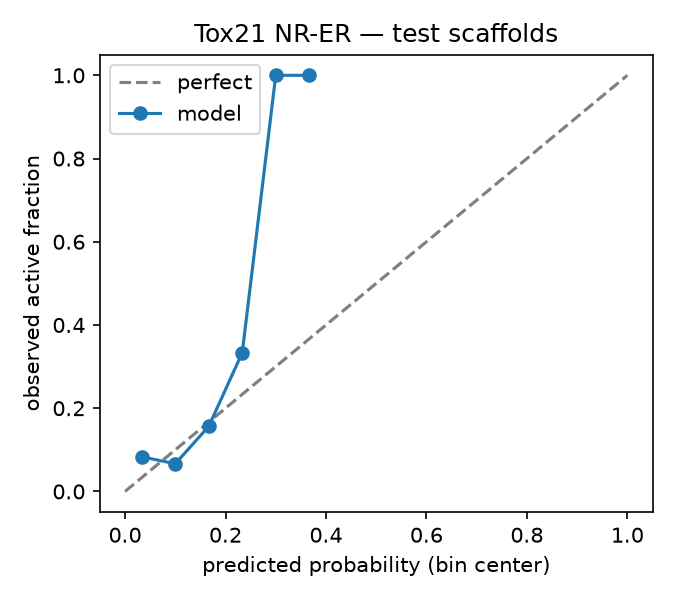
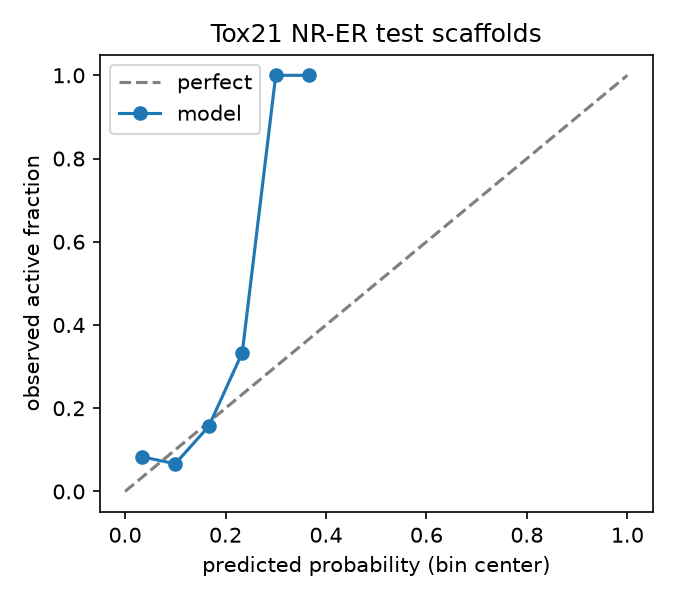
Add TensorFlow/Keras MLP head to the NR-ER comparison
Fourth model on the identical scaffold split: a Keras MLP on Morgan
fingerprints, wrapped in a picklable sklearn adapter (weights + dense
spec, not the live graph) so it flows through the same Platt-on-valid
calibration, conformal, and applicability-domain evaluation. Measured
on held-out scaffolds: AUROC 0.679, AUPRC 0.314 — the best AUPRC of the
four heads. PyTorch, JAX, and TensorFlow are now all exercised on the
same task and eval path.

Generated with [Devin](https://devin.ai)

Changed region(s): [[0.28, 0.03, 0.84, 0.09]]

diff --git a/src/comp_tox/models/mlp_tf.py b/src/comp_tox/models/mlp_tf.py
@@ -1,0 +1,155 @@
+"""TensorFlow/Keras MLP baseline on Morgan fingerprints.
+
+Same scaffold split, same Platt-on-validation calibration, same eval path
+as the sklearn baselines and the PyTorch GNN — this head exists to keep the
+third framework honest (PyTorch GNN, JAX/Flax parity port, TF/Keras here),
+not to claim a better model class.
+
+`_KerasMlp` is an sklearn-style adapter storing only the dense-layer spec
+and numpy weights, so the model bundle stays joblib-picklable. Keras
+models themselves are not safely picklable.
+"""
+
+from __future__ import annotations
+
+import numpy as np
+from scipy import sparse
+from sklearn.base import BaseEstimator, ClassifierMixin
+
+
+class _KerasMlp(ClassifierMixin, BaseEstimator):
+    """predict_proba adapter around a Keras MLP; stores weights, not the graph.
+
+    BaseEstimator/ClassifierMixin give it the sklearn contract (tags,
+    get_params/clone) that FrozenEstimator + CalibratedClassifierCV need.
+    """
+
+    def __init__(self, n_in: int, arch: list, weights: list):
+        self.n_in = n_in
+        self.arch = arch  # [(units, activation_name), ...]
+        self.weights = weights  # list of np.ndarray, get_weights() order
+        self.classes_ = np.array([0, 1])
+        self._model = None
+
+    def __getstate__(self):
+        # the live Keras graph is not picklable; weights + spec are
+        return {
+            "n_in": self.n_in,
+            "arch": self.arch,
+            "weights": self.weights,
+        }
+
+    def __setstate__(self, state):
+        self.__init__(state["n_in"], state["arch"], state["weights"])
+
+    @classmethod
+    def from_model(cls, model, n_in: int) -> "_KerasMlp":
+        import tensorflow as tf
+
+        dense = [
+            layer
+            for layer in model.layers
+            if isinstance(layer, tf.keras.layers.Dense)
+        ]
+        arch = [(int(l.units), l.activation.__name__) for l in dense]
+        return cls(n_in, arch, model.get_weights())
+
+    def _build(self):
+        import tensorflow as tf
+
+        x_in = tf.keras.Input(shape=(self.n_in,))
+        x = x_in
+        for units, act in self.arch:
+            x = tf.keras.layers.Dense(units, activation=act)(x)
+        model = tf.keras.Model(x_in, x)
+        model.set_weights(self.weights)
+        return model
+
+    def predict_proba(self, X):
+        if self._model is None:
+            self._model = self._build()
+        if sparse.issparse(X):
+            X = X.toarray()
+        p = self._model.predict(np.asarray(X, dtype=np.float32), verbose=0)
+        p = p.reshape(-1)
+        return np.column_stack([1.0 - p, p])
+
+    def fit(self, X=None, y=None):
+        # weights are baked in at construction (train_mlp_tf); sklearn's
+        # check_is_fitted only requires the method to exist
+        return self
+
+    def predict(self, X):
+        # needed so FrozenEstimator satisfies cross_val_predict's contract
+        return (self.predict_proba(X)[:, 1] >= 0.5).astype(int)
+
+
+def train_mlp_tf(X, y, seed: int, epochs: int = 30, batch_size: int = 128):
+    """Train the Keras MLP on the train split; returns a _KerasMlp.
+
+    Determinism: `set_random_seed` covers weight init, dropout, and shuffle
+    order. TF ops are deterministic at this scale on a given build, but
+    unlike the lbfgs baseline this is seed-level reproducibility, not
+    bit-level — documented rather than hidden.
+    """
+    if epochs < 1:
+        raise ValueError(f"epochs must be >= 1, got {epochs}")
+
+    import tensorflow as tf
+
+    tf.keras.utils.set_random_seed(seed)
+
+    if sparse.issparse(X):
+        X = X.toarray()
+    X = np.asarray(X, dtype=np.float32)
+    y = np.asarray(y, dtype=np.float32)
+
+    # Balanced class weights: the endpoint is ~4-9% actives; unweighted BCE
+    # would collapse toward the inactive majority.
+    n, n_pos = len(y), float(y.sum())
+    if n_pos == 0 or n_pos == n:
+        raise ValueError(
+            f"train split is single-class ({int(n_pos)} of {n} active); "
+            "balanced class weights are undefined"
+        )
+    w = {0.0: n / (2 * (n - n_pos)), 1.0: n / (2 * n_pos)}
+
+    # Shuffle once up front: keras validation_split takes the *tail* of the
+    # array, which is only a random subset if the rows were shuffled.
+    rng = np.random.default_rng(seed)
+    perm = rng.permutation(n)
+    X, y = X[perm], y[perm]
+
+    model = tf.keras.Sequential(
+        [
+            tf.keras.Input(shape=(X.shape[1],)),
+            tf.keras.layers.Dense(256, activation="relu"),
+            tf.keras.layers.Dropout(0.3),
+            tf.keras.layers.Dense(64, activation="relu"),
+            tf.keras.layers.Dropout(0.3),
+            tf.keras.layers.Dense(1, activation="sigmoid"),
+        ]
+    )
+    model.compile(
+        optimizer=tf.keras.optimizers.Adam(1e-3),
+        loss="binary_crossentropy",
+        metrics=[tf.keras.metrics.AUC(name="auroc")],
+    )
+    model.fit(
+        X,
+        y,
+        epochs=epochs,
+        batch_size=batch_size,
+        validation_split=0.15,
+        class_weight=w,
+        callbacks=[
+            tf.keras.callbacks.EarlyStopping(
+                monitor="val_auroc",
+                mode="max",
+                patience=5,
+                restore_best_weights=True,
+            )
+        ],
+        verbose=0,
+    )
+    return _KerasMlp.from_model(model, X.shape[1])

diff --git a/tests/test_mlp_tf.py b/tests/test_mlp_tf.py
@@ -1,0 +1,55 @@
+import io
+
+import joblib
+import numpy as np
+import pytest
+from scipy import sparse
+
+tf = pytest.importorskip("tensorflow")
+
+from comp_tox.models.mlp_tf import _KerasMlp, train_mlp_tf
+
+
+def _toy(seed=0):
+    rng = np.random.default_rng(seed)
+    n = 200
+    X = sparse.csr_matrix((rng.random((n, 2048)) > 0.97).astype(np.float32))
+    # signal: compounds with bit 7 set are mostly active
+    y = ((X[:, 7].toarray().ravel() > 0).astype(int) | (rng.random(n) < 0.05)).astype(
+        np.float32
+    )
+    return X, y
+
+
+def test_predict_proba_shape_and_range():
+    X, y = _toy()
+    m = train_mlp_tf(X, y, seed=0, epochs=2, batch_size=64)
+    p = m.predict_proba(X[:10])
+    assert p.shape == (10, 2)
+    assert np.all(p >= 0) and np.all(p <= 1)
+    assert np.allclose(p.sum(axis=1), 1.0)
+
+
+def test_adapter_survives_joblib_roundtrip():
+    X, y = _toy()
+    m = train_mlp_tf(X, y, seed=0, epochs=2, batch_size=64)
+    buf = io.BytesIO()
+    joblib.dump(m, buf)
+    buf.seek(0)
+    m2 = joblib.load(buf)
+    assert np.allclose(m.predict_proba(X[:8]), m2.predict_proba(X[:8]))
+
+
+def test_seed_determinism():
+    X, y = _toy()
+    a = train_mlp_tf(X, y, seed=3, epochs=2, batch_size=64)
+    b = train_mlp_tf(X, y, seed=3, epochs=2, batch_size=64)
+    assert np.allclose(a.predict_proba(X[:16]), b.predict_proba(X[:16]))
+
+
+def test_model_learns_toy_signal():
+    X, y = _toy()
+    m = train_mlp_tf(X, y, seed=0, epochs=10, batch_size=64)
+    p = m.predict_proba(X)[:, 1]
+    pos = y == 1
+    assert p[pos].mean() > p[~pos].mean()

diff --git a/src/comp_tox/models/train.py b/src/comp_tox/models/train.py
@@ -61,10 +61,21 @@ def train(
             graphs = torch.load(graphs_path, weights_only=False)
             models[name] = train_gnn(graphs, df, tr, va, seed)
             inputs[name] = "graphs"
+        elif name == "mlp_tf":
+            from comp_tox.models.mlp_tf import train_mlp_tf
+
+            base = train_mlp_tf(X[tr], y[tr], seed)
+            calibrated = CalibratedClassifierCV(
+                FrozenEstimator(base), method="sigmoid"
+            )
+            calibrated.fit(X[va], y[va])
+            models[name] = calibrated
+            inputs[name] = "npz"
         else:
             if name not in MODEL_REGISTRY:
                 raise ValueError(
-                    f"unknown model {name!r} (registry: {sorted(MODEL_REGISTRY)}, 'gnn')"
+                    f"unknown model {name!r} (registry: {sorted(MODEL_REGISTRY)},"
+                    " 'gnn', 'mlp_tf')"
                 )
             base = MODEL_REGISTRY[name](seed)
             base.fit(X[tr], y[tr])

diff --git a/README.md b/README.md
@@ -6,9 +6,10 @@ structure, built on public data.
 
 **Status: working baseline.** End-to-end Snakemake DAG runs download →
 standardize → features → scaffold split → train → evaluate on real Tox21 data.
-Three models compared on identical splits (logistic regression and random
-forest on Morgan fingerprints, a GIN graph network, all Platt-calibrated on
-validation scaffolds). The evaluation rigor is the point.
+Four models compared on identical splits (logistic regression and random
+forest on Morgan fingerprints, a GIN graph network, and a TensorFlow/Keras
+MLP — all Platt-calibrated on validation scaffolds). The evaluation rigor
+is the point.
 
 ## Problem
 
@@ -63,6 +64,7 @@ is the honest estimate of prospective performance on new chemotypes. 610 test co
 | Logistic regression (fingerprints) | 0.644 (0.574–0.719) | 0.244 (0.159–0.336) | 0.033 | 0.930 | **0.751** | 0.619 |
 | Random forest (fingerprints) | 0.726 (0.667–0.787) | 0.274 (0.199–0.378) | 0.044 | 0.931 | 0.701 | 0.733 |
 | GIN graph network | 0.666 (see metrics.json) | 0.249 | 0.040 | 0.934 | 0.507 | 0.704 |
+| Keras MLP (fingerprints) | 0.679 (0.620–0.748) | **0.314** (0.213–0.415) | 0.053 | 0.928 | 0.823 | 0.648 |
 
 Two findings worth reporting plainly:
 
@@ -111,6 +113,11 @@ Artifacts: `results/metrics.json`, `results/calibration.png`
   evaluation. The code path is identical to multi-GPU (nccl). Only the
   backend and scale differ. Verified on CPU. Multi-GPU scaling is
   untested and labeled as such.
+- `src/comp_tox/models/mlp_tf.py` is a TensorFlow/Keras MLP head on the
+  same fingerprints and splits, wrapped in a picklable sklearn adapter so
+  it flows through the identical Platt-calibration, conformal, and
+  applicability-domain path. PyTorch, JAX, and TF are all exercised on
+  this one task — same data, same eval, three frameworks.
 
 ## Limitations
 
